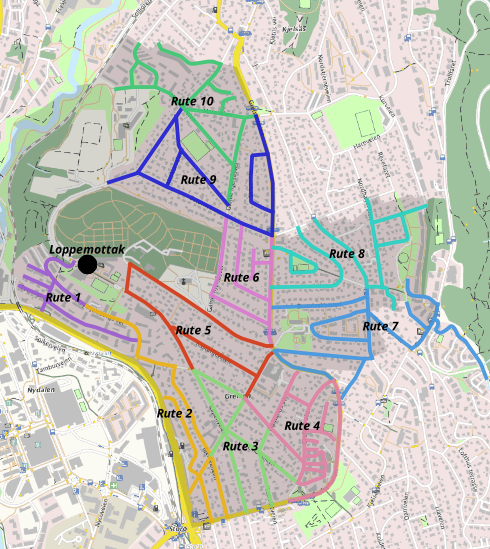
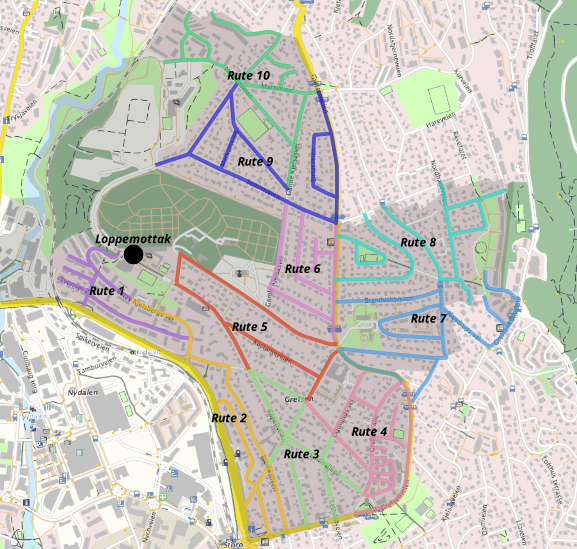
Fjernet Akebakkeskogen etter avtale med Mette.

diff --git a/ruter.rst b/ruter.rst
@@ -58,7 +58,7 @@ Grefsenveien fra Grefsen allé til Glads vei, Brannvaktveien, Torleifs
 allé, Kjelsåsveien fra gladsvei til stikkveien ned mot jupiterjordet,
 Gladsvei fra Grefsenveien til Kjelsåsveien, Doktor Smiths vei fra
 Grefsenveien til Glads vei, Nandrups vei, Grefsenkollveien 6, 8, 12,
-14, 16, Akebakkeskogen.
+14, 16.
 
 Rute 8:
 

diff --git a/endringer.rst b/endringer.rst
@@ -8,7 +8,6 @@ Endringer i rutekartet før høsten 2018
   begrense dem til de delene som hører til skolekretsen for Grefsen
   Skole.
 * Kuttet ut Tverrvei 1.
-* Lagt til Akebakkeskogen
 * Lagt til Dr. Smiths vei mot Glads vei.
 * Lagt til Grefsenveien fra Saturnveien til Marsveien.
 * Lagt til Nandrups vei.
